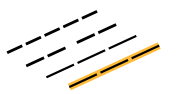
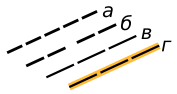
up

diff --git a/_includes/images.html b/_includes/images.html
@@ -17,6 +17,7 @@
       <img class="rounded img-fluid"
         src="{{ image | prepend: '/' | relative_url }}"
         {% if alt %}
+        title="{{ alt }}"
         alt="{{ alt }}">
         {% else %}
         alt="{{ image | prepend: '/' | split: '/' | last }}">

diff --git a/pages/symbols.md b/pages/symbols.md
@@ -8,56 +8,56 @@ permalink: /uz/
 ------
 
 |---|---|
-|![]({{ "assets/img/uz/r1.png" | relative_url }})| - горизонталь,<br/>- утолщённая горизонталь,<br/>- вспомогательная горизонталь |
+|![]({{ "assets/img/uz/r1.png" | relative_url }})| - горизонталь<br/>- утолщённая горизонталь<br/>- вспомогательная горизонталь |
 |![]({{ "assets/img/uz/r2.png" | relative_url }})| - грунтовый обрыв |
-|![]({{ "assets/img/uz/r3.png" | relative_url }})| - земляной вал (высота > 2 м),<br/>- невысокий земляной вал (1...2 м) |
-|![]({{ "assets/img/uz/r4.png" | relative_url }})| - промоина на склоне,<br/>- ров, неглубокая промоина |
-|![]({{ "assets/img/uz/r5.png" | relative_url }})| внемасштабные:<br/>- бугор,<br/>- вытянутый бугор,<br/>- яма,<br/>- воронка,<br/>- специальный объект рельефа (уточнение на полях карты) |
+|![]({{ "assets/img/uz/r3.png" | relative_url }})| - земляной вал (высота > 2 м)<br/>- невысокий земляной вал (1...2 м) |
+|![]({{ "assets/img/uz/r4.png" | relative_url }})| - промоина на склоне<br/>- ров, неглубокая промоина |
+|![]({{ "assets/img/uz/r5.png" | relative_url }})| внемасштабные:<br/>- бугор (а)<br/>- вытянутый бугор (б)<br/>- яма (в)<br/>- воронка (г)<br/>- специальный объект рельефа (д) (уточнение на полях карты) |
 |![]({{ "assets/img/uz/r6.png" | relative_url }})| - неровный грунт |
 
 Скалы и камни
 -------------
 
 |---|---|
-|![]({{ "assets/img/uz/s1.png" | relative_url }})| а - отдельный камень (бетонный блок),<br/>б - группа камней (бетонных блоков),<br/>в - россыпь камней,<br/>г - каменистый грунт |
-|![]({{ "assets/img/uz/s2.png" | relative_url }})| - песчаный грунт,<br/>- скальная поверхность (бетон) |
+|![]({{ "assets/img/uz/s1.png" | relative_url }})| - отдельный камень (бетонный блок) (а)<br/>- группа камней (бетонных блоков) (б)<br/>- россыпь камней (в)<br/>- каменистый грунт (г) |
+|![]({{ "assets/img/uz/s2.png" | relative_url }})| - песчаный грунт<br/>- скальная поверхность (бетон) |
 
 Водные объекты
 --------------
 
 |---|---|
-|![]({{ "assets/img/uz/w1.png" | relative_url }})| - водоём,<br/>- непреодолимое болото |
-|![]({{ "assets/img/uz/w2.png" | relative_url }})| - широкий ручей или канава,<br/>- узкий ручей или канава,<br/>- пересыхающий ручей или канава,<br/>- узкое болото |
-|![]({{ "assets/img/uz/w3.png" | relative_url }})| - болото,<br/>- нечёткое, пересыхающее болото |
-|![]({{ "assets/img/uz/w4.png" | relative_url }})| - яма с водой,<br/>- колодец,<br/>- родник с водой, пригодной для питья,<br/>- особый объект гидрографии (уточнение на полях карты) |
+|![]({{ "assets/img/uz/w1.png" | relative_url }})| - водоём<br/>- непреодолимое болото |
+|![]({{ "assets/img/uz/w2.png" | relative_url }})| - речка, широкий ручей или канава<br/>- узкий ручей или канава<br/>- пересыхающий ручей или канава<br/>- узкое болото |
+|![]({{ "assets/img/uz/w3.png" | relative_url }})| - болото<br/>- нечёткое, пересыхающее болото |
+|![]({{ "assets/img/uz/w4.png" | relative_url }})| - яма с водой (а)<br/>- колодец (б)<br/>- родник с водой, пригодной для питья (в)<br/>- особый объект гидрографии (уточнение на полях карты) (г) |
 
 Растительность
 --------------
 
 |---|---|
-|![]({{ "assets/img/uz/v1.png" | relative_url }})| - удобное для бега отрытое пространство,<br/>- с отдельными деревьями |
-|![]({{ "assets/img/uz/v2.png" | relative_url }})| - неудобное для бега отрытое пространство,<br/>- с отдельными деревьями |
-|![]({{ "assets/img/uz/v3.png" | relative_url }})| - неудобное для бега отрытое пространство с отдельными кустами,<br/>- пашня, возделываемая земля |
-|![]({{ "assets/img/uz/v4.png" | relative_url }})| - легкопроходимый лес (белый),<br/>- медленнопроходимый лес (светло-зелёный),<br/> - граница растительности |
-|![]({{ "assets/img/uz/v5.png" | relative_url }})| - труднопроходимый лес или кусты,<br/>- непроходимая растительность, завалы |
-|![]({{ "assets/img/uz/v6.png" | relative_url }})| - медленнопроходимая растительность с хорошим обзором,<br/>- труднопроходимая растительность с хорошим обзором |
+|![]({{ "assets/img/uz/v1.png" | relative_url }})| - удобное для бега отрытое пространство<br/>- с отдельными деревьями |
+|![]({{ "assets/img/uz/v2.png" | relative_url }})| - неудобное для бега отрытое пространство<br/>- с отдельными деревьями |
+|![]({{ "assets/img/uz/v3.png" | relative_url }})| - неудобное для бега отрытое пространство с отдельными кустами<br/>- пашня, возделываемая земля |
+|![]({{ "assets/img/uz/v4.png" | relative_url }})| - легкопроходимый лес (белый)<br/>- медленнопроходимый лес (светло-зелёный)<br/> - граница растительности |
+|![]({{ "assets/img/uz/v5.png" | relative_url }})| - труднопроходимый лес или кусты<br/>- непроходимая растительность, завалы |
+|![]({{ "assets/img/uz/v6.png" | relative_url }})| - медленнопроходимая растительность с хорошим обзором<br/>- труднопроходимая растительность с хорошим обзором |
 |![]({{ "assets/img/uz/v7.png" | relative_url }})| - лес с неоднородной проходимостью в разных направлениях (посадки) |
-|![]({{ "assets/img/uz/v8.png" | relative_url }})| отдельные:<br/>- дерево,<br/>- куст,<br/>- корч (корни упавшего дерева)|
+|![]({{ "assets/img/uz/v8.png" | relative_url }})| отдельные:<br/>- дерево<br/>- куст<br/>- корч (корни упавшего дерева)|
 
 Искусственные объекты
 ---------------------
 
 |---|---|
-|![]({{ "assets/img/uz/m1.png" | relative_url }})| - асфальтированные дороги,<br/>- территория с твёрдым покрытием |
-|![]({{ "assets/img/uz/m2.png" | relative_url }})| - дорога с твёрдым покрытием (гравийная и др.)<br/>- грунтовая дорога<br/>- дорожка, широкая тропа<br/>- медленная дорога |
-|![]({{ "assets/img/uz/m3.png" | relative_url }})| - тропинка<br/>- нечёткая дорожка или тропинка<br/>- узкая просека без тропы, старая противопожарная пропашка<br/>- просека или пропашка, удобная для передвижения |
-|![]({{ "assets/img/uz/m4.png" | relative_url }})| - железная дорога<br/>- высоковольтная линия электропередач (поперечные штрихи в месте опор)<br/>- местная линия электропередач<br/>- непреодолимый наземный трубопровод<br/>- преодолимый наземный трубопровод |
+|![]({{ "assets/img/uz/m1.png" | relative_url }})| - асфальтированные дороги<br/>- территория с твёрдым покрытием |
+|![]({{ "assets/img/uz/m2.png" | relative_url }})| - дорога с твёрдым покрытием (гравийная и др.) (а)<br/>- грунтовая дорога (б)<br/>- дорожка, широкая тропа (в)<br/>- медленная дорога (г) |
+|![]({{ "assets/img/uz/m3.png" | relative_url }})| - тропинка (а)<br/>- нечёткая дорожка или тропинка (б)<br/>- узкая просека без тропы, старая противопожарная пропашка (в)<br/>- просека или пропашка, удобная для передвижения (г) |
+|![]({{ "assets/img/uz/m4.png" | relative_url }})| - железная дорога (а)<br/>- высоковольтная линия электропередач (поперечные штрихи в месте опор) (б)<br/>- местная линия электропередач (в)<br/>- непреодолимый наземный трубопровод (г)<br/>- преодолимый наземный трубопровод (д) |
 |![]({{ "assets/img/uz/m5.png" | relative_url }})| - непреодолимая ограда (а или б) с проходом<br/>- невысокая ограда (в)<br/>- полуразрушенная ограда (г) |
-|![]({{ "assets/img/uz/m6.png" | relative_url }})| - непреодолимая стена<br/>- преодолимая стена<br/>- полуразрушенная стена |
+|![]({{ "assets/img/uz/m6.png" | relative_url }})| - непреодолимая стена (а)<br/>- преодолимая стена (б)<br/>- полуразрушенная стена (в) |
 |![]({{ "assets/img/uz/m7.png" | relative_url }})| - застроенная территория, частные владения (запрещено для пересечения) |
 |![]({{ "assets/img/uz/m8.png" | relative_url }})| - здание (а или б)<br/>- навес (в)<br/>- развалины, фундамент (г)|
-|![]({{ "assets/img/uz/m9.png" | relative_url }})| - вышка связи, башня<br/>- невысокая вышка (напр., охотничья)<br/>- столб<br/>- кормушка |
-|![]({{ "assets/img/uz/m10.png" | relative_url }})| - костровище<br/>- искусственный объект (напр., стол для пикника)<br/>- могила, обелиск, памятник<br/>- кладбище |
+|![]({{ "assets/img/uz/m9.png" | relative_url }})| - вышка связи, башня (а)<br/>- невысокая вышка (напр., охотничья) (б)<br/>- столб (в)<br/>- кормушка (г) |
+|![]({{ "assets/img/uz/m10.png" | relative_url }})| - костровище (а)<br/>- искусственный объект (напр., стол для пикника) (б)<br/>- могила, обелиск, памятник (в)<br/>- кладбище (г) |
 |![]({{ "assets/img/uz/m11.png" | relative_url }})| - тоннель<br/>- мостик без тропы |
 
 Специальные обозначения
